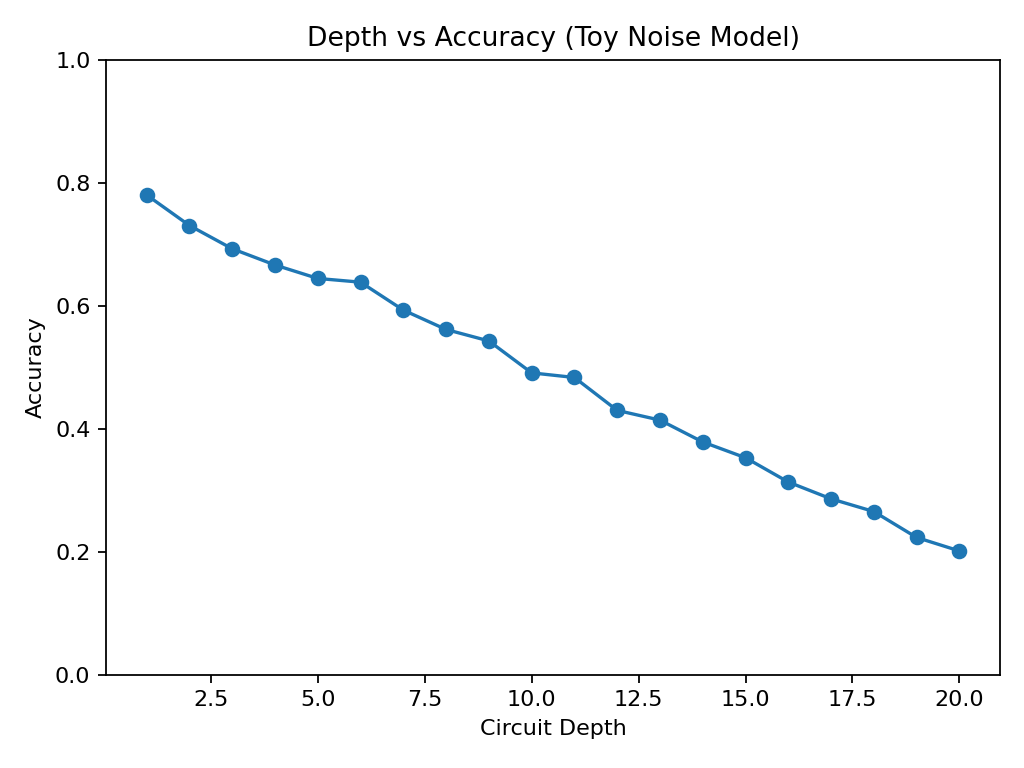
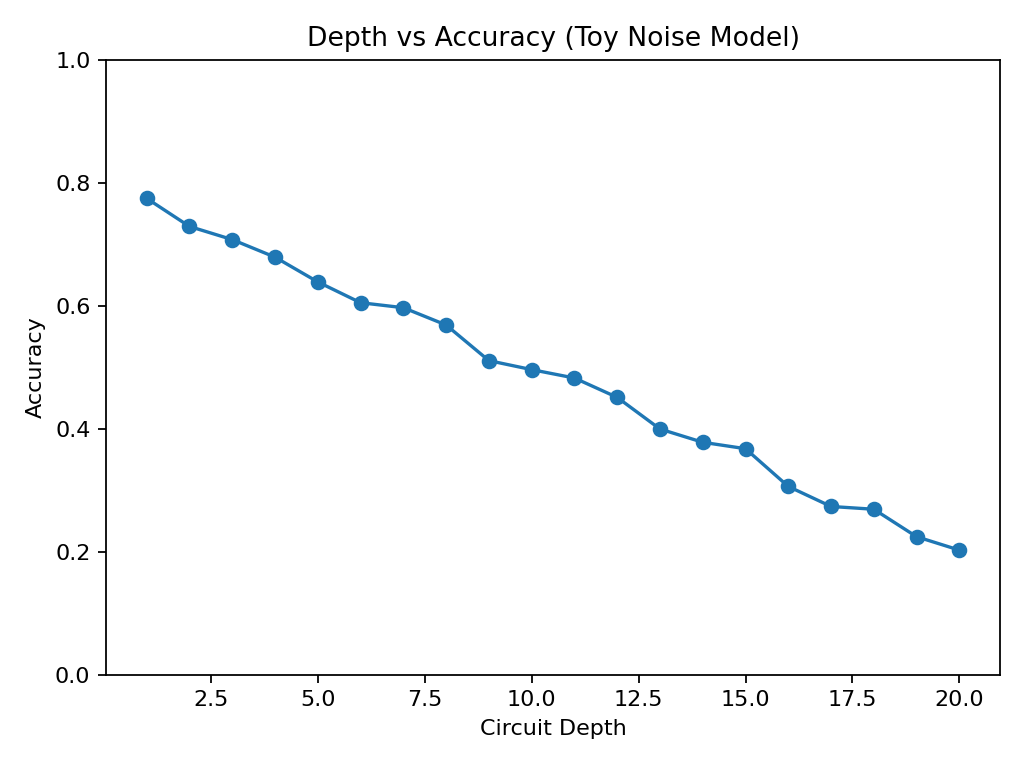
fix(ci): restore hello-ci.html for smoke test verification

diff --git a/public/labs/Intermediate_Labs/qais-quantum-kernel-svm-vs-logregression-lab/resources/assets/images/README.md b/public/labs/Intermediate_Labs/qais-quantum-kernel-svm-vs-logregression-lab/resources/assets/images/README.md
@@ -1,0 +1,6 @@
+This folder holds generated artifacts for this lab.
+
+- `assets/data/`   → CSV/JSON/NPY or small datasets exported by helper scripts/notebooks
+- `assets/images/` → PNG/SVG figures exported by helper scripts/notebooks
+
+These files are produced locally or in CI; do not store large binaries here.
